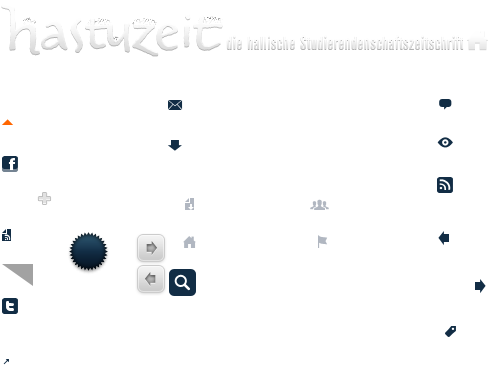
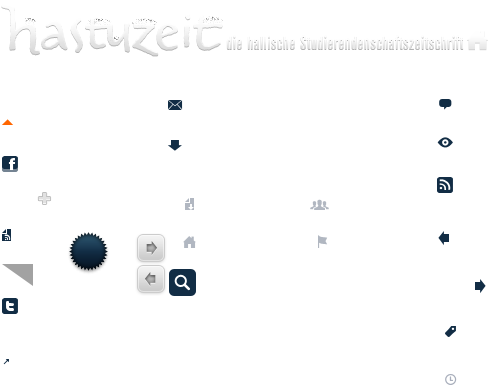
some form stuff
git-svn-id: https://krema.svn.beanstalkapp.com/hastuzeit@308 3445ca58-e459-48c6-80b6-aacbbe7ab71b

diff --git a/wphastuzeit/trunk/style/css/layout.css b/wphastuzeit/trunk/style/css/layout.css
@@ -87,14 +87,11 @@ input, textarea {
 }
 
 input:focus, textarea:focus {
-	outline: 3px double #000;
+	border: 3px double #000;
 	box-shadow: 0 0 5px #7f7f7f;
 	-webkit-box-shadow: 0 0 10px #7f7f7f;
 	-moz-box-shadow: 0 0 10px #7f7f7f;
-}
-
-textarea {
-	max-width: 580px;
+	padding: 3px;
 }
 
 input[type=submit] {
@@ -521,7 +518,7 @@ a.post-edit-link {
 .similar-posts li a {
 	display: block;
 	height: 33px;
-	background-color: #e0e2e5;
+	background-color: #ecedee;
 	border: 1px solid #ccc;
 	text-shadow: #fff 0 1px 0;
 	color: #122d45;
@@ -663,15 +660,19 @@ ul.similar-posts {
 
 #tags, #time {
 	padding-left: 20px;
+	background-image: url(../images/hastuzeit-master.png);
+	background-repeat: no-repeat;
 }
 
 #tags {
-	background: url(../images/hastuzeit-master.png) no-repeat -443px -321px;
+	background-position: -443px -321px;
+	margin-bottom: 5px;
 }
 
 #time {
 	color: #a8aebb;
 	font-size: 0.9em;
+	background-position: -443px -369px;
 }
 
 .heftbadge {
@@ -1088,10 +1089,17 @@ img#readiculum:hover {
 #sidebar input[type=text] {
 	width: 245px;
 	display: block;
-	border: 1px solid #ccc;
 	padding-top: 10px;
 	padding-bottom: 10px;
 	padding-right: 40px;
+}
+
+#sidebar input[type=text]:focus {
+	width: 245px;
+	display: block;
+	padding-top: 7px;
+	padding-bottom: 9px;
+	padding-right: 37px;
 }
 
 #sidebar input[type=submit] {
@@ -1176,6 +1184,7 @@ img#readiculum:hover {
 
 #respond form {
 	margin-left: -10px;
+	overflow: hidden;
 }
 
 #respond form p {
@@ -1185,7 +1194,7 @@ img#readiculum:hover {
 
 #respond form textarea {
 	float: left;
-	width: 96.1%;
+	width: 577px;
 	clear: both;
 	margin-left: 10px;
 }
@@ -1219,6 +1228,10 @@ img#readiculum:hover {
 	margin-left: 2px;
 	float: left;
 	margin-top: 5px;
+}
+
+h3#comments, h3#pings {
+	margin-top: 60px;
 }
 
 h3#comments {
@@ -1712,7 +1725,7 @@ br.dirtyLittleTrick {
 }
 
 div.sexy-bookmarks {
-	margin-bottom: 40px !important;
+	margin-bottom: 70px !important;
 	margin-top: 0 !important;
 	clear: both;
 }

diff --git a/wphastuzeit/trunk/style/css/typography.css b/wphastuzeit/trunk/style/css/typography.css
@@ -697,6 +697,8 @@ textarea.inactive {
 	display: block;
 	padding: 5px 10px;
 	color: #5e5e5e;
+	border-top: 1px solid #fff;
+	border-bottom: 1px solid #ccc;
 }
 
 .live-results a:hover {
